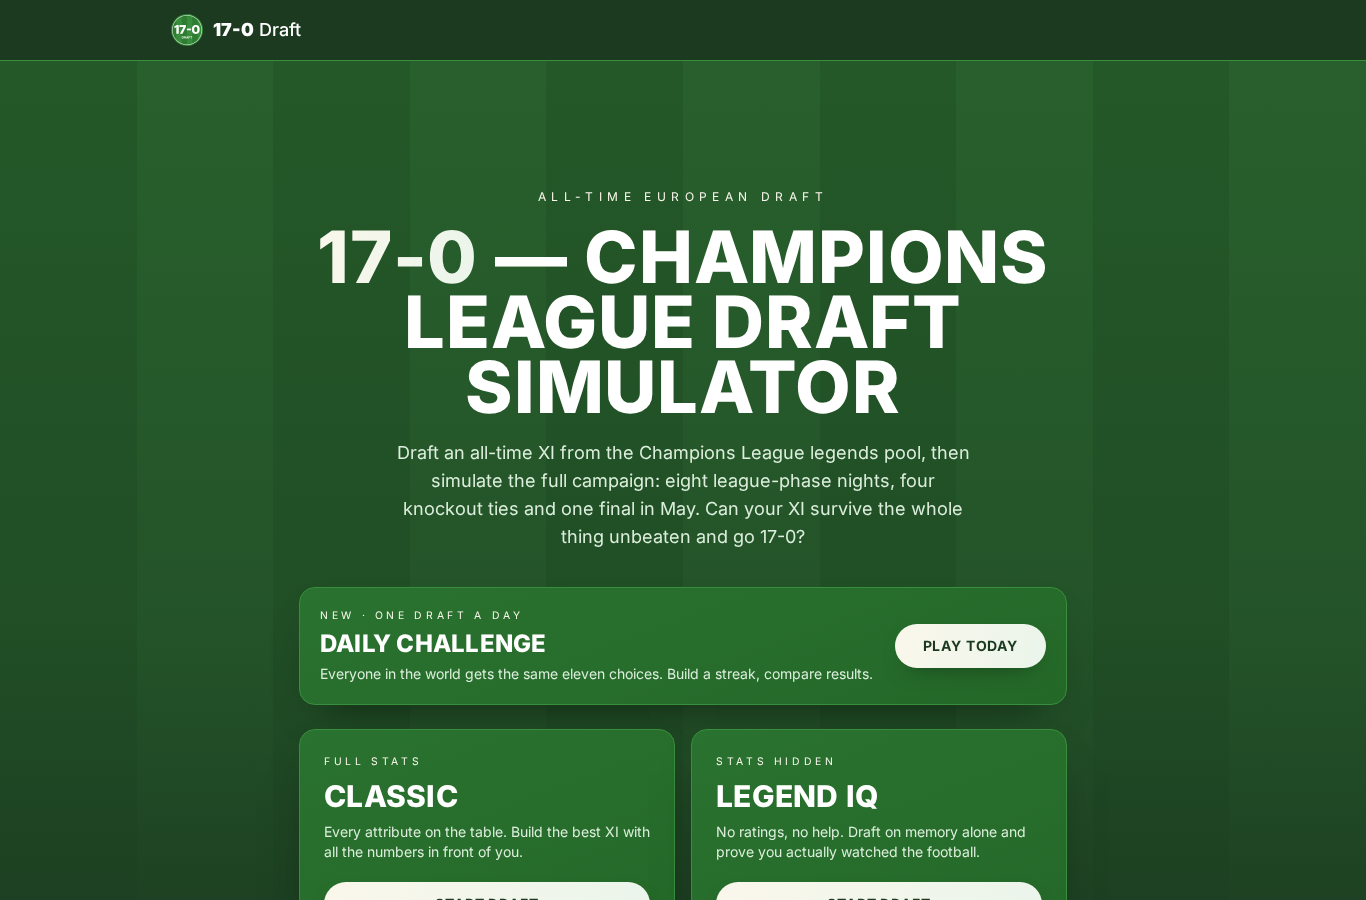
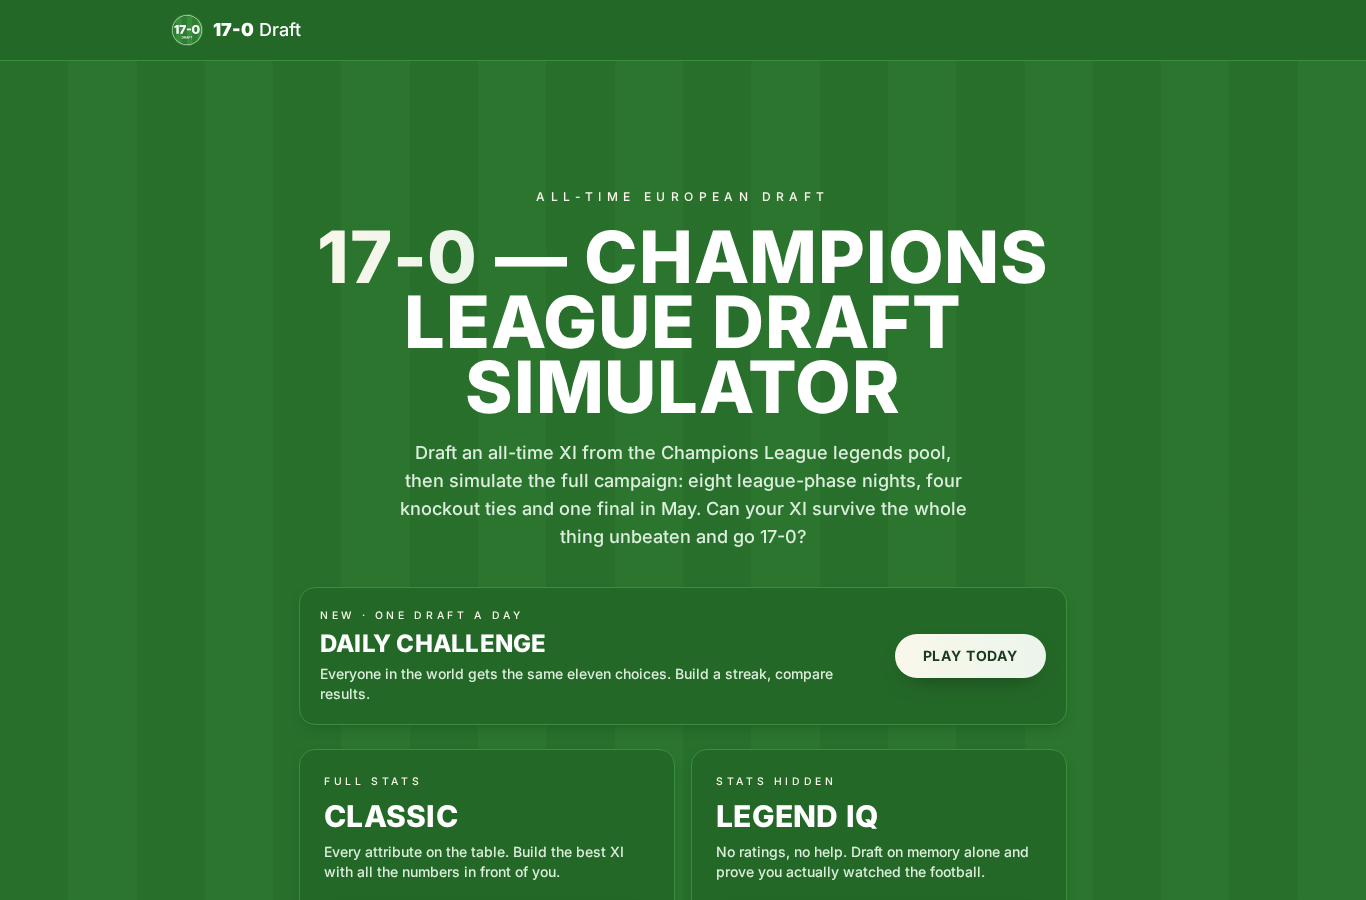
Brand v2: Marketing values (stripes bg, #246828 panels, #1E5A22 shadow), AA fixes for red chip and gold, Inter weights

diff --git a/src/styles.css b/src/styles.css
@@ -59,7 +59,7 @@
 :root {
   --radius: 0.5rem;
   /* Brand v2 pitch-green palette (values from brand-v2/make.py) */
-  --background: #1b3a20;
+  --background: #246828;
   --foreground: #ffffff;
   --card: #246828;
   --card-foreground: #ffffff;
@@ -71,24 +71,25 @@
   --secondary-foreground: #ffffff;
   --muted: #246828;
   --muted-foreground: #dceedc;
-  --accent: oklch(0.85 0.15 90);
+  --accent: #fae3ab;
   --accent-foreground: #1b3a20;
-  --destructive: oklch(0.62 0.22 25);
-  --destructive-foreground: oklch(0.98 0.005 250);
+  --destructive: #d23c63;
+  --destructive-foreground: #ffffff;
   --border: #388e3c;
   --input: #388e3c;
   --ring: #ebf5eb;
   --pitch: #ebf5eb;
-  --gold: oklch(0.85 0.15 90);
+  --gold: #fae3ab;
   --elite: oklch(0.7 0.2 330);
 
-  --gradient-hero:
-    linear-gradient(180deg, rgb(27 58 32 / 0.55) 0%, rgb(27 58 32 / 0.7) 60%, #1b3a20 100%),
-    repeating-linear-gradient(90deg, #2e7d32 0 10%, #388e3c 10% 20%);
-  --gradient-card: linear-gradient(160deg, #2a7230 0%, #246828 100%);
+  --gradient-hero: transparent;
+  --gradient-card: linear-gradient(#246828, #246828);
   --gradient-accent: linear-gradient(100deg, #faf7eb, #ebf5eb);
   --shadow-glow: 0 10px 24px -14px rgb(0 0 0 / 0.55);
-  --shadow-card: 0 20px 45px -25px rgb(0 0 0 / 0.6);
+  --shadow-card: 0 6px 14px -6px #1e5a22;
+  --stripes:
+    linear-gradient(rgb(36 104 40 / 0.65), rgb(36 104 40 / 0.65)),
+    repeating-linear-gradient(90deg, #2e7d32 0 5%, #388e3c 5% 10%);
 }
 
 .dark {
@@ -108,6 +109,8 @@
     background-color: var(--color-background);
     color: var(--color-foreground);
     font-family: var(--font-sans);
+    font-weight: 500;
+    background-image: var(--stripes);
     -webkit-font-smoothing: antialiased;
   }
 
@@ -201,7 +204,7 @@
   justify-content: center;
   min-height: 90px;
   border-radius: var(--radius-lg);
-  background-color: rgb(27 58 32 / 0.5);
+  background-color: rgb(36 104 40 / 0.5);
 }
 
 @keyframes confetti-fall {

diff --git a/src/lib/share-image.ts b/src/lib/share-image.ts
@@ -17,8 +17,8 @@ const H = 630;
 const INK = "#ffffff";
 const MUTED = "#dceedc";
 const LINE = "#ebf5eb";
-const GOLD = "#f5c451";
-const RED = "#ef4470";
+const GOLD = "#fae3ab";
+const RED = "#d23c63";
 const GREEN = "#ebf5eb";
 
 function roundRect(
@@ -60,9 +60,9 @@ export async function renderShareImage(data: ShareCardData): Promise<Blob | null
 
   // Background
   const bg = ctx.createLinearGradient(0, 0, W, H);
-  bg.addColorStop(0, "#246828");
-  bg.addColorStop(0.55, "#1f4f24");
-  bg.addColorStop(1, "#1b3a20");
+  bg.addColorStop(0, "#2e7d32");
+  bg.addColorStop(0.55, "#2a7330");
+  bg.addColorStop(1, "#246828");
   ctx.fillStyle = bg;
   ctx.fillRect(0, 0, W, H);
 
@@ -143,7 +143,7 @@ export async function renderShareImage(data: ShareCardData): Promise<Blob | null
     ctx.fillStyle = m.outcome === "W" ? GREEN : m.outcome === "D" ? "#ffffff28" : RED;
     roundRect(ctx, x, stripY, box, box, 7);
     ctx.fill();
-    ctx.fillStyle = m.outcome === "D" ? INK : "#1b3a20";
+    ctx.fillStyle = m.outcome === "W" ? "#1b3a20" : INK;
     ctx.font = "700 14px system-ui, sans-serif";
     ctx.fillText(m.outcome, x + 8, stripY + 18);
   });

diff --git a/src/components/ResultCard.tsx b/src/components/ResultCard.tsx
@@ -22,7 +22,7 @@ export function ResultCard({
   rating: number;
   contextLabel?: string | undefined;
 }) {
-  const accent = campaign.perfect ? "#f5c451" : campaign.champion ? "#ebf5eb" : "#ef4470";
+  const accent = campaign.perfect ? "#fae3ab" : campaign.champion ? "#ebf5eb" : "#d23c63";
 
   return (
     <div className="surface overflow-hidden rounded-2xl">
@@ -81,11 +81,9 @@ export function ResultCard({
                     ? "#ebf5eb"
                     : m.outcome === "D"
                       ? "#ffffff28"
-                      : "#ef4470",
+                      : "#d23c63",
                 color:
-                  m.outcome === "D"
-                    ? "var(--color-foreground)"
-                    : "#1b3a20",
+                  m.outcome === "W" ? "#1b3a20" : "#ffffff",
               }}
             >
               {m.outcome}

diff --git a/src/components/DraftGame.tsx b/src/components/DraftGame.tsx
@@ -407,9 +407,9 @@ export function Results({
                           ? "var(--color-secondary)"
                           : "var(--color-destructive)",
                     color:
-                      m.outcome === "D"
-                        ? "var(--color-foreground)"
-                        : "var(--color-primary-foreground)",
+                      m.outcome === "W"
+                        ? "var(--color-primary-foreground)"
+                        : "var(--color-foreground)",
                     border: m.outcome === "D" ? "1px solid var(--color-border)" : "none",
                   }}
                 >

diff --git a/src/routes/__root.tsx b/src/routes/__root.tsx
@@ -80,7 +80,7 @@ export const Route = createRootRouteWithContext<{ queryClient: QueryClient }>()(
     meta: [
       { charSet: "utf-8" },
       { name: "viewport", content: "width=device-width, initial-scale=1" },
-      { name: "theme-color", content: "#1b3a20" },
+      { name: "theme-color", content: "#246828" },
       { title: "Champions League All-Time Draft | 17-0 Draft" },
       {
         name: "description",
